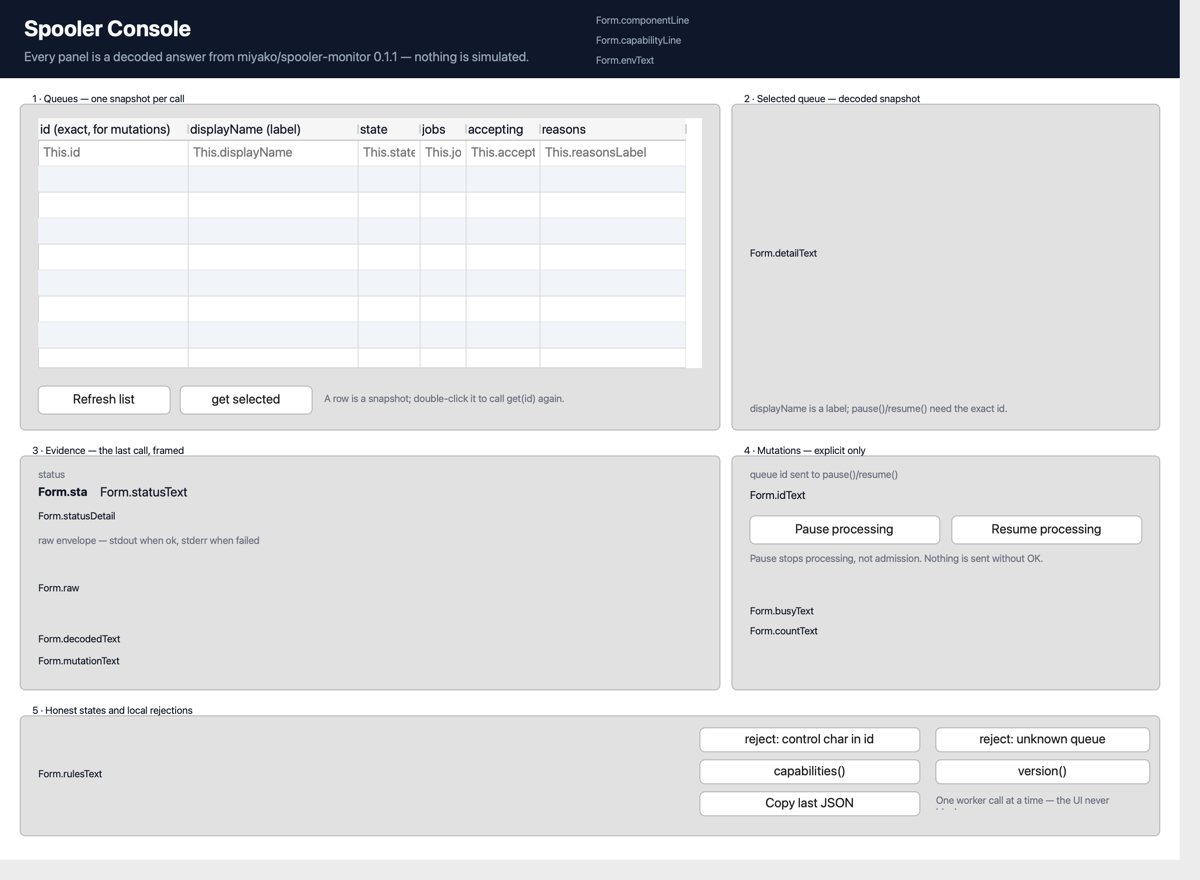
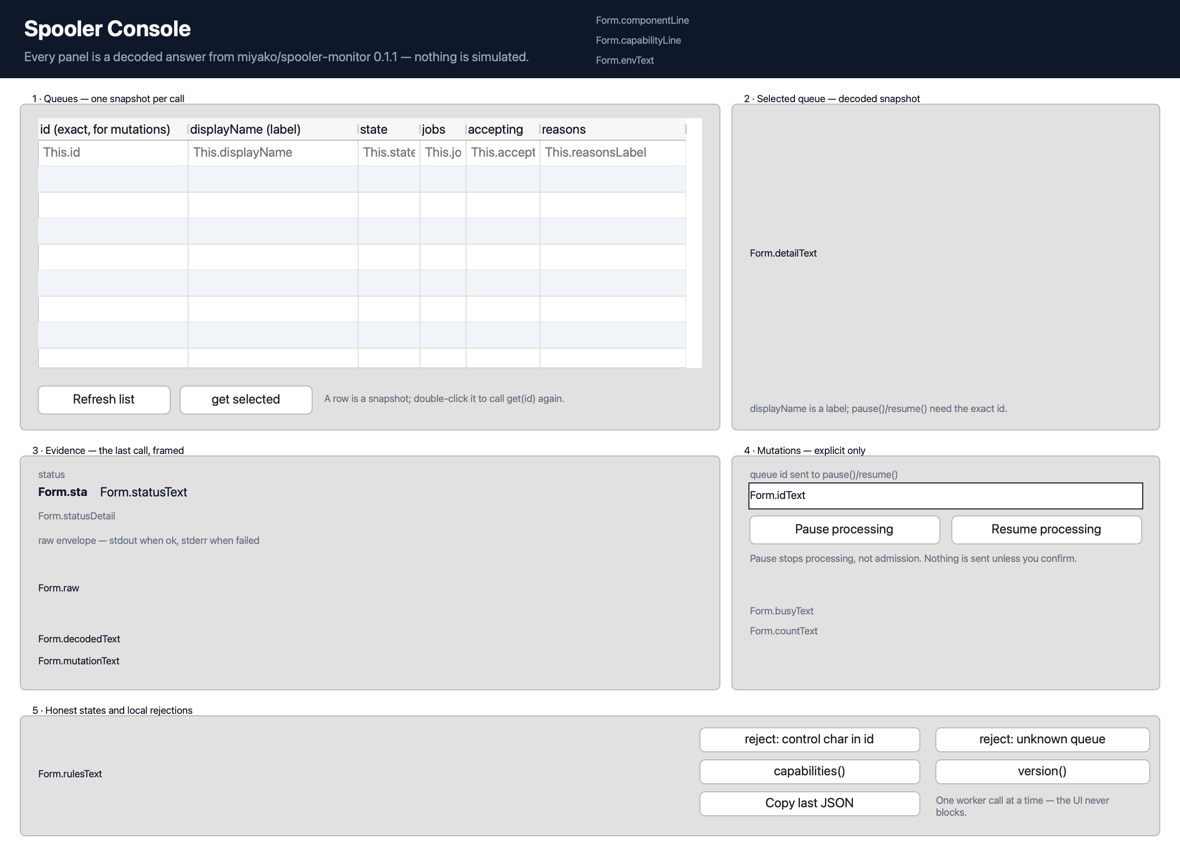
Fix confirmation dialog, exit-code display and dark-mode rendering
CONFIRM was used as a function; exitCode/seq type checks rejected Real values so
the UI printed "no process" for launched calls; the constructor overwrote the
component-missing status; On Load blanked pre-filled screenshot data. The page
now follows prefers-color-scheme. Recaptured both screenshots.

diff --git a/Project/Sources/styleSheets.css b/Project/Sources/styleSheets.css
@@ -1,5 +1,8 @@
-/* Spooler Console — light dashboard under a dark header strip.
-   Structural properties stay in form.4DForm; only appearance lives here. */
+/* Spooler Console — dashboard under a dark header strip.
+   Structural properties stay in form.4DForm; only appearance lives here.
+   The body follows the system appearance (prefers-color-scheme): every text
+   object carries a colour class, because an object without one would inherit
+   the system default and could end up light-on-light or dark-on-dark. */
 
 .header {
 	fill: #0F172A;
@@ -14,6 +17,12 @@
 	color: #94A3B8;
 }
 
+.title {
+	color: #F8FAFC;
+	font-weight: bold;
+	font-size: 22px;
+}
+
 .mono {
 	font-family: "Menlo", "Consolas", monospace;
 	font-size: 11px;
@@ -25,43 +34,60 @@
 }
 
 .label {
-	color: #6B7280;
 	font-size: 10px;
 }
 
 .note {
-	color: #6B7280;
 	font-size: 10px;
 }
 
-.detail {
-	color: #111827;
-}
-
-/* Explicit colours: the page is white in every appearance, so the text must
-   not inherit the system's light-on-dark default. */
-.ink {
-	color: #111827;
-}
-
-.listInk {
-	color: #111827;
-	fill: #FFFFFF;
-}
-
-.pageBg {
-	fill: #FFFFFF;
-	stroke: transparent;
-}
-
-.title {
-	color: #F8FAFC;
-	font-weight: bold;
-	font-size: 22px;
-}
-
 .badge {
-	color: #111827;
 	font-weight: bold;
 	font-size: 12px;
+}
+
+@media (prefers-color-scheme: light) {
+	.pageBg {
+		fill: #FFFFFF;
+		stroke: transparent;
+	}
+	.ink, .detail, .badge {
+		color: #111827;
+	}
+	.label, .note {
+		color: #6B7280;
+	}
+	.listInk, listbox.listInk {
+		color: #111827;
+		fill: #FFFFFF;
+		alternateFill: #F1F5F9;
+	}
+	.field {
+		color: #111827;
+		fill: #FFFFFF;
+		borderStyle: solid;
+	}
+}
+
+@media (prefers-color-scheme: dark) {
+	.pageBg {
+		fill: #1B1F27;
+		stroke: transparent;
+	}
+	.ink, .detail, .badge {
+		color: #E5E7EB;
+	}
+	.label, .note {
+		color: #9CA3AF;
+	}
+	.listInk, listbox.listInk {
+		color: #E5E7EB;
+		fill: #1B1F27;
+		alternateFill: #242A35;
+	}
+	.field {
+		color: #E5E7EB;
+		fill: #11141A;
+		borderStyle: solid;
+	}
 }

diff --git a/README.md b/README.md
@@ -133,7 +133,9 @@ this repository.
 3. **`exitCode` arrives as a Real, not a Longint.** `Value type($result.exitCode)=Is longint`
    silently hides every exit code, which made the unknown-queue check fail with
    `exitCode: null` even though the CLI exited 3. Accept `Is real`, `Is longint`
-   and `Is integer`.
+   and `Is integer` through one helper (`isNumber`), and decide "no process" from
+   the `launched` flag, not from a type test. The same applies to `seq`, which
+   travels inside an object to the worker and back.
 
 4. **Mutations can be refused by the host, and that is not a demo bug.** On this
    macOS host both fresh queues answered `pause`/`resume` with exit 5
@@ -144,11 +146,13 @@ this repository.
    this as environment-dependent and never assume a mutation succeeded because the
    request was accepted.
 
-5. **Dark appearance is a trap for a white dashboard.** With a white page
-   background, `automaticAlternate` listbox rows rendered dark grey and default
-   text colours would have been light-on-light. Every text object carries an
-   explicit colour class and the listbox uses an explicit alternating fill
-   (`#F1F5F9`).
+5. **A hard-coded white page breaks in dark appearance.** The first version forced
+   a white page; with the system in dark mode the buttons and list header drew
+   light-on-light and were unreadable in the capture. The page now follows
+   `prefers-color-scheme` in `styleSheets.css`: every text object carries a colour
+   class, the list uses a class-driven `alternateFill`, and nothing is hard-coded
+   in `form.4DForm` (a JSON value would beat the stylesheet). Only the dark
+   appearance was captured; the light rules are not_run on a live window.
 
 6. **`Application version` returns `2102`, not `21.2`.** The header prints the raw
    string; do not parse it as a dotted version.
@@ -157,6 +161,11 @@ this repository.
    `LOG EVENT(Into system standard outputs; ...)` is the only reliable stdout from
    a headless method. `QUIT 4D` at the end of every CLI method, or `tool4d` waits
    for the 30 s timeout.
+
+8. **`CONFIRM` is a procedure.** It returns nothing and reports the choice in
+   `OK`; the optional arguments are the OK then the Cancel button titles.
+   `If (Not(CONFIRM(...)))` is wrong. The dialog needs a person, so the
+   confirmation path was not exercised headlessly (not_run).
 
 ## Status matrix
 
